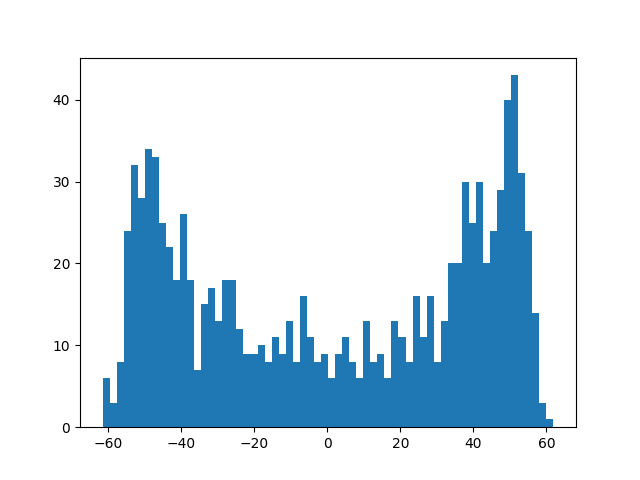
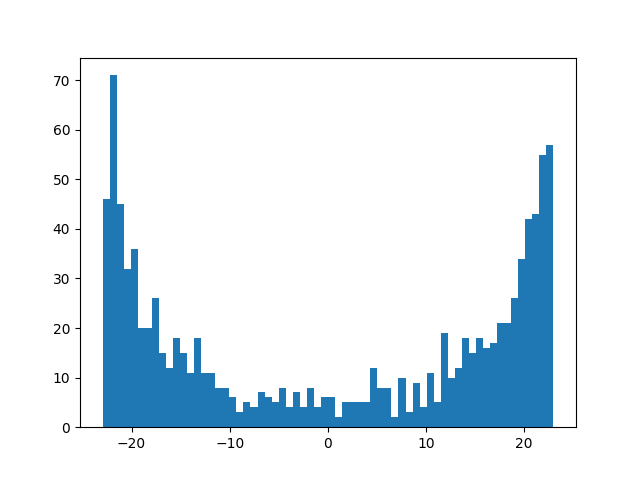
failed result

diff --git a/GAN/generate_normal.py b/GAN/generate_normal.py
@@ -21,8 +21,15 @@ from torch.nn import BCELoss
 #     plt.scatter(x,y,c=c)
 #     plt.savefig(figname)
 #     plt.close()
+def _notrain():
+    x = torch.rand(32).cuda()
+    result = G_net(x).detach().cpu()
+    plt.hist(result,bins=64)
+    plt.savefig('./pic/train_from_scratch.png')
+    plt.close()
 
 if __name__ == "__main__":
+    _notrain()
     from tqdm import tqdm
     normal = Normal(0,1)
     lossfunc = BCELoss()
@@ -35,8 +42,10 @@ if __name__ == "__main__":
             loss = 0
             realpredict = D_net(realsample)
             loss += lossfunc(realpredict[:,0],torch.ones_like(realpredict[:,0]))
+            # -log p_real p_real is larger
             fakepredict = D_net(fakeresult)
-            loss += lossfunc(fakepredict[:,0],torch.ones_like(fakepredict[:,1]))
+            loss += lossfunc(fakepredict[:,1],torch.ones_like(fakepredict[:,1]))
+            # -log (1-p_real)=-log p_fake
             loss.backward()
         G_optimizer.zero_grad()
         noise = torch.rand((BATCHSIZE,32)).cuda()

diff --git a/GAN/Generate_model/Generator.py b/GAN/Generate_model/Generator.py
@@ -12,6 +12,9 @@ class Generator(Module):
             nn.ReLU(),
             nn.Linear(128,BATCH_SIZE)
         )
+        for m in self.modules():
+            if isinstance(m,nn.Linear):
+                nn.init.zeros_(m.weight.data)
     
     def forward(self,x:torch.tensor):
         return self.linear(x)
